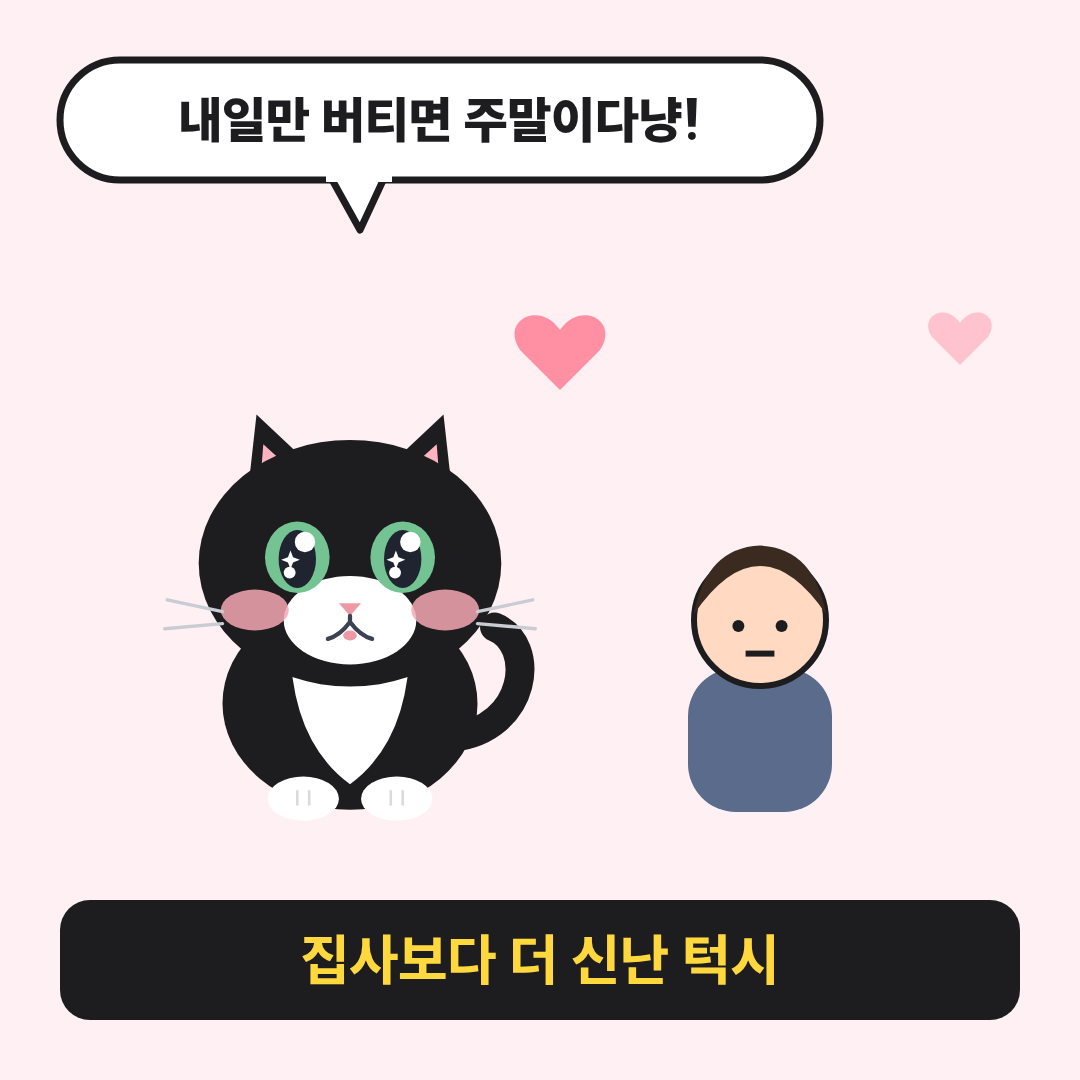
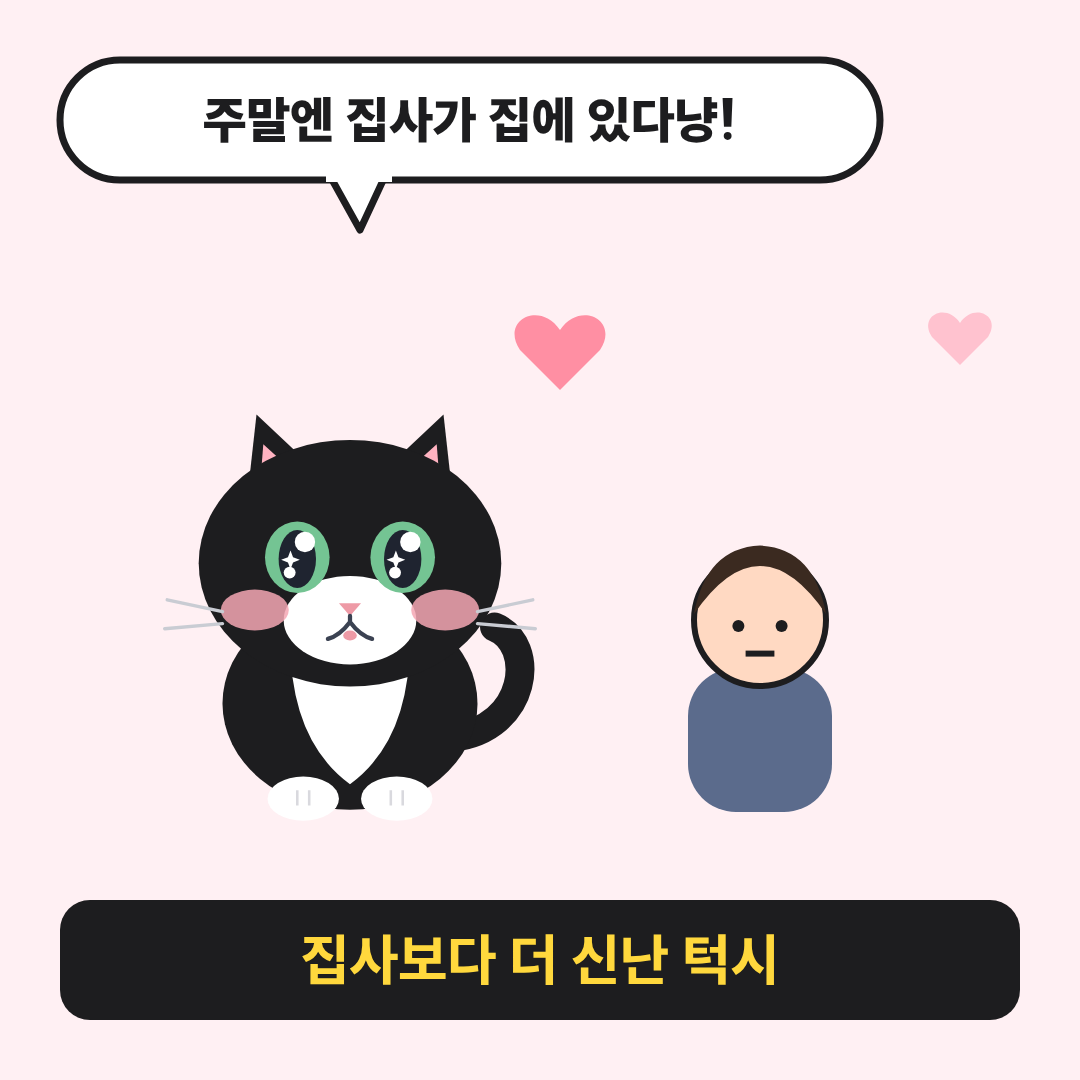
ep19: cat is excited because owner is home on weekends
Claude-Session: https://claude.ai/code/session_01ATNo1qDAA9qFJoR3V8USGH

Changed region(s): [[0.1528, 0.0917, 0.7028, 0.1528], [0.7028, 0.0306, 0.825, 0.1833]]

diff --git a/scripts/toon/cat3-ep19.js b/scripts/toon/cat3-ep19.js
@@ -281,7 +281,7 @@ const p2 = panelF('#fdf3e7',
 const p3 = panelF('#fff0f3',
   head(760, 620, 1.2, '#3b2a20', false) + cat(350, 610, 0.85, 'sparkle', { mouthOpen: true }) +
   heart(560, 340, 1.0, '#ff8fa3') + heart(960, 330, 0.7, '#ffc2cf') +
-  bubble(60, 60, 760, '내일만 버티면 주말이다냥!', 330),
+  bubble(60, 60, 820, '주말엔 집사가 집에 있다냥!', 330),
   '집사보다 더 신난 턱시');
 (async () => {
   const browser = await chromium.launch();
